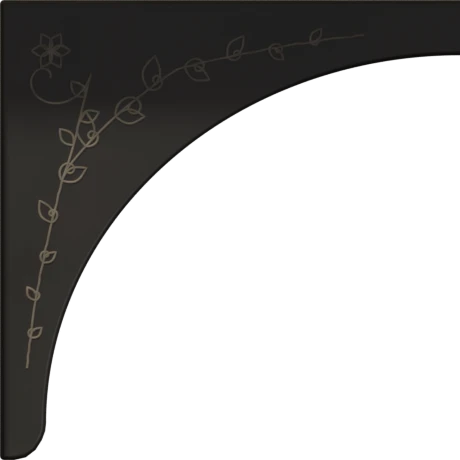
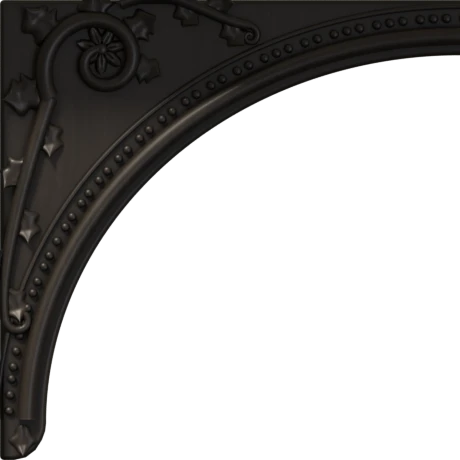
Lamplit study: carved gothic bookcase and figured walnut back
Re-cut in deep relief: acanthus scrolls and a beaded moulding round the
arch, a carved cartouche that the brass card pull is mounted on, vines
down the pilasters, leaf capitals, rosette feet, a leaf frieze in the
cornice, pointed finials and brass plates on the shelves. The back is
flat-sawn walnut with cathedral figure and staggered board joints; other
woods tint a neutral set of the same boards.

diff --git a/index.html b/index.html
@@ -221,12 +221,17 @@ body[data-room=study] .view.pane{padding-bottom:calc(102px + env(safe-area-inset
 body[data-room=study] #view-library{display:flow-root;min-height:100vh;overflow:clip}
 body[data-room=study] .case-inner{border:0;padding:0 var(--pil);box-shadow:0 34px 60px rgba(0,0,0,.55),0 0 0 1px rgba(0,0,0,.35);
   background:url(study/capital.webp) left top/24px 22px no-repeat,url(study/capital.webp) right top/24px 22px no-repeat,
+    url(study/foot.webp) left 0 bottom calc(var(--gap) - var(--board))/24px 30px no-repeat,url(study/foot.webp) right 0 bottom calc(var(--gap) - var(--board))/24px 30px no-repeat,
     url(study/shaft.webp) left top/24px 60px repeat-y,url(study/shaft.webp) right top/24px 60px repeat-y,
-    url(study/planks.webp) var(--pil) 0/140px 240px repeat;
-  background-color:var(--oak);background-blend-mode:normal,normal,normal,normal,multiply}
-body[data-room=study] .case-inner::before{content:"";position:absolute;left:-17px;right:-17px;bottom:100%;height:34px;padding:0 30px;pointer-events:none;
-  background:url(study/cornice-l.webp) left top/30px 34px no-repeat,url(study/cornice-r.webp) right top/30px 34px no-repeat,url(study/cornice.webp) 0 0/60px 34px repeat-x;
-  background-origin:border-box,border-box,content-box;background-clip:border-box,border-box,content-box;filter:drop-shadow(0 -2px 8px rgba(0,0,0,.35))}
+    var(--planks) var(--pil) 0/140px 480px repeat;
+  background-color:var(--oak);background-blend-mode:normal,normal,normal,normal,normal,normal,var(--planks-blend)}
+/* walnut shows its own figured boards; any other wood tints a neutral set of the same boards */
+:root{--planks:url(study/planks.webp);--planks-blend:multiply}
+:root[data-wood=walnut]{--planks:url(study/planks-walnut.webp);--planks-blend:normal}
+body[data-room=study] .case-inner::before{content:"";position:absolute;left:-17px;right:-17px;bottom:100%;height:76px;padding:0 30px;pointer-events:none;
+  background:url(study/finial.webp) left 20px top/18px 42px no-repeat,url(study/finial.webp) right 20px top/18px 42px no-repeat,
+    url(study/cornice-l.webp) left bottom/30px 34px no-repeat,url(study/cornice-r.webp) right bottom/30px 34px no-repeat,url(study/cornice.webp) 0 100%/60px 34px repeat-x;
+  background-origin:border-box,border-box,border-box,border-box,content-box;background-clip:border-box,border-box,border-box,border-box,content-box;filter:drop-shadow(0 -2px 8px rgba(0,0,0,.35))}
 body[data-room=study] .case-inner::after{content:"";position:absolute;left:-10px;right:-10px;top:calc(100% - var(--gap) + var(--board));height:36px;padding:0 30px;pointer-events:none;
   background:url(study/plinth-l.webp) left top/30px 36px no-repeat,url(study/plinth-r.webp) right top/30px 36px no-repeat,url(study/plinth.webp) 0 0/60px 36px repeat-x;
   background-origin:border-box,border-box,content-box;background-clip:border-box,border-box,content-box;filter:drop-shadow(0 6px 8px rgba(0,0,0,.6))}
@@ -237,7 +242,8 @@ body[data-room=study] .arch::before{z-index:0;
     url(study/arch-band-shade.webp) 50% 0/auto 100% repeat-x;
   -webkit-mask-image:linear-gradient(180deg,#000 45%,transparent 96%);mask-image:linear-gradient(180deg,#000 45%,transparent 96%)}
 body[data-room=study] .arch::after{z-index:1;
-  background:url(study/arch-l.webp) left top/min(50%,230px) auto no-repeat,url(study/arch-r.webp) right top/min(50%,230px) auto no-repeat,
+  background:url(study/cartouche.webp) 50% 0/calc(min(50%,230px)*.88) auto no-repeat,
+    url(study/arch-l.webp) left top/min(50%,230px) auto no-repeat,url(study/arch-r.webp) right top/min(50%,230px) auto no-repeat,
     url(study/arch-band.webp) 50% 0/auto 100% repeat-x}
 /* one brass card-catalogue pull at the top of the arch: tug the knob and a catalogue card drops down */
 body[data-room=study] .plates{display:none}
@@ -271,7 +277,7 @@ body[data-room=study] .niche{display:block;position:absolute;left:0;right:0;heig
   background:linear-gradient(180deg,rgba(0,0,0,.62),rgba(0,0,0,.22) 20px,rgba(0,0,0,0) 64px),linear-gradient(90deg,rgba(0,0,0,.6),rgba(0,0,0,0) 18px,rgba(0,0,0,0) calc(100% - 18px),rgba(0,0,0,.6))}
 body[data-room=study] .niche.first{background:linear-gradient(90deg,rgba(0,0,0,.6),rgba(0,0,0,0) 18px,rgba(0,0,0,0) calc(100% - 18px),rgba(0,0,0,.6))}
 body[data-room=study] .board{display:block;position:absolute;left:0;right:0;height:var(--board);z-index:-1;pointer-events:none;
-  background:url(study/board.webp) 0 0/60px var(--board) repeat-x;box-shadow:0 8px 10px rgba(0,0,0,.55)}
+  background:url(study/escutcheon.webp) 50% 50%/16px 12px no-repeat,url(study/board.webp) 0 0/60px var(--board) repeat-x;box-shadow:0 8px 10px rgba(0,0,0,.55)}
 body[data-room=study] .win{right:24px;top:-166px;width:150px;height:196px;border:0;border-radius:75px 75px 0 0;box-shadow:0 12px 26px rgba(0,0,0,.55)}
 @media (min-width:700px){body[data-room=study] .win{right:48px;top:-168px;width:176px;height:230px;border-radius:88px 88px 0 0}}
 body[data-room=study] .win::before,body[data-room=study] .win::after{display:none}
@@ -1251,6 +1257,7 @@ function applyWood(){
   const w = WOODS[wood] || WOODS.oak, st = document.documentElement.style;
   st.setProperty("--oak", w[1]); st.setProperty("--oak-dark", w[2]); st.setProperty("--oak-deep", w[3]); st.setProperty("--back", w[4]);
   st.setProperty("--hint", inkOn(w[4])==="#1c1a17" ? "rgba(40,32,24,.55)" : "rgba(239,230,214,.38)");
+  document.documentElement.dataset.wood = WOODS[wood] ? wood : "oak";
 }
 function decorSvg(t){ const d = DECOR[t]; return `<svg viewBox="0 0 ${d[1]} ${d[2]}" aria-hidden="true">${d[4]}</svg>`; }
 function decorH(d){ return Math.round(({s:54, m:76, l:104}[d.size] || 76) * DECOR[d.type][3] * (matchMedia("(max-width:640px)").matches ? .86 : 1)); }
